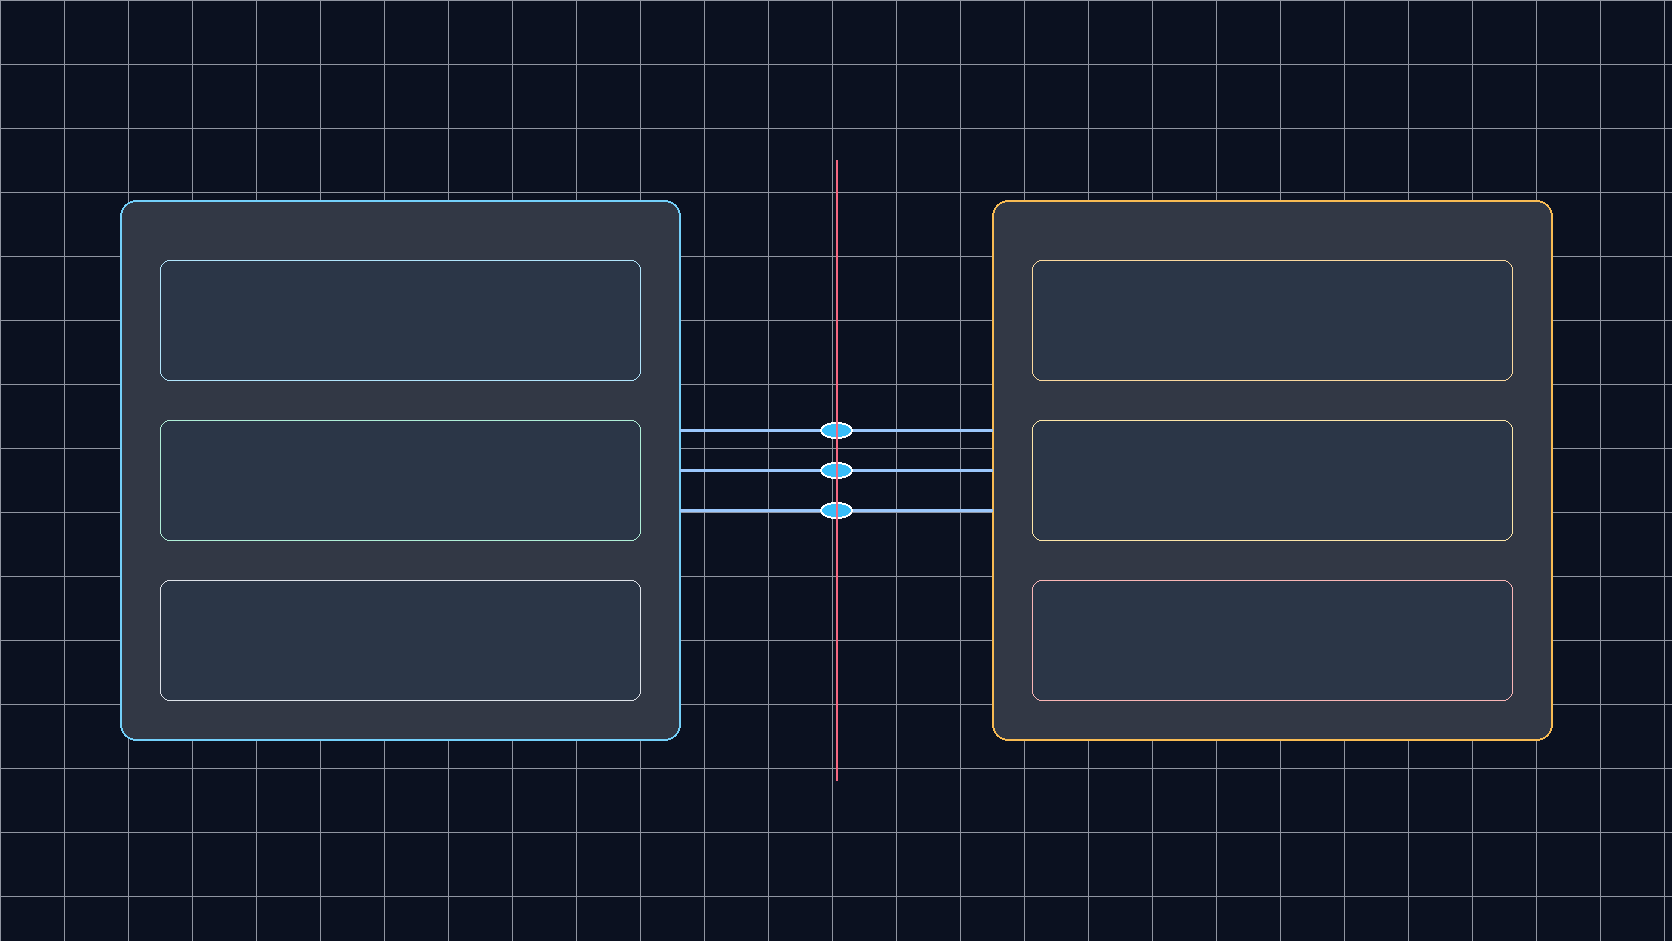
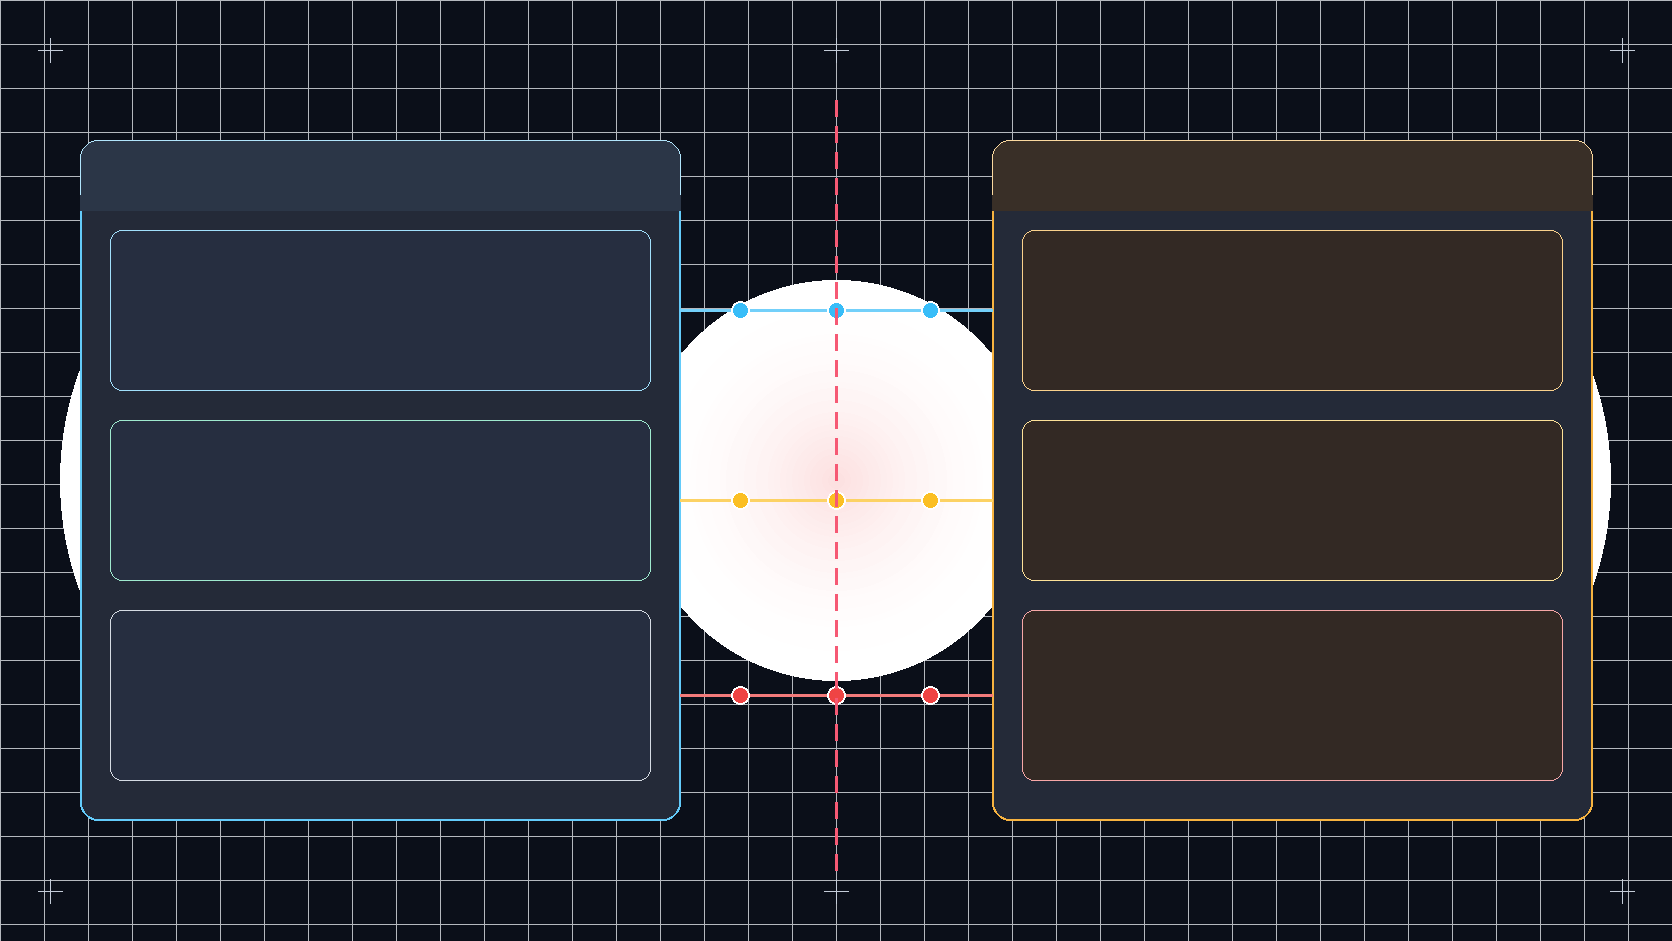
fix(blog): enhance Browser Use architecture visual and theme-safe Mermaid

diff --git a/_posts/2026-11-14-browser-use-1-cloud-execution-boundary.md b/_posts/2026-11-14-browser-use-1-cloud-execution-boundary.md
@@ -26,20 +26,50 @@ The minimal `Agent(...).run_sync()` constructor in Browser Use 1.0 routes tasks 
 Even when an engineer overrides this configuration, nuanced boundaries remain. Specifying `Browser('chromium')` provisions a local browser process on the host, but page screenshots and accessibility trees are still dispatched to external model provider APIs. Understanding where browser automation state lives—and where remote telemetry and network traffic flow—is essential for building reliable, secure agent infrastructure.
 
 ```mermaid
+%%{init: {"flowchart": {"useMaxWidth": false}}}%%
 flowchart LR
-    subgraph Client["Developer Host"]
+    subgraph Client ["Developer Host Environment"]
         AgentCode["Agent Script / CLI"]
-        LocalBrowser["Local Chromium Daemon"]
+        LocalBrowser["Local Chromium Daemon (default-chromium)"]
     end
-    subgraph CloudBoundary["External Boundaries"]
+    subgraph CloudBoundary ["External Boundaries"]
         CloudGateway["Browser Use Cloud Gateway"]
-        LLMProvider["Model Provider API (OpenAI/Anthropic)"]
+        LLMProvider["Model Provider API (OpenAI / Anthropic)"]
     end
 
     AgentCode -->|"Default run_sync()"| CloudGateway
     AgentCode -.->"Explicit Browser('chromium')"| LocalBrowser
     LocalBrowser -->|"DOM & Screenshots"| LLMProvider
+
+    style Client fill:#f8fafc,stroke:#38bdf8,stroke-width:2px,color:#0f172a
+    style CloudBoundary fill:#fffbeb,stroke:#f59e0b,stroke-width:2px,color:#0f172a
 ```
+
+<svg viewBox="0 0 860 320" xmlns="http://www.w3.org/2000/svg" role="img" aria-label="Browser Use 1.0 architecture diagram showing local vs cloud execution boundaries" style="width:100%;max-width:860px;height:auto;display:block;margin:1.5rem auto;">
+  <rect x="10" y="20" width="380" height="280" rx="12" fill="none" stroke="#38bdf8" stroke-width="2" stroke-dasharray="4 2"/>
+  <text x="30" y="50" fill="#38bdf8" font-family="system-ui,-apple-system,sans-serif" font-size="14" font-weight="700">LOCAL HOST RUNTIME</text>
+  <rect x="30" y="70" width="340" height="55" rx="8" fill="#1e293b" stroke="#38bdf8" stroke-width="1"/>
+  <text x="45" y="98" fill="#f8fafc" font-family="system-ui,-apple-system,sans-serif" font-size="12" font-weight="600">CLI Stdio Transport (--cli-mcp)</text>
+  <text x="45" y="114" fill="#94a3b8" font-family="system-ui,-apple-system,sans-serif" font-size="11">intercepts BrokenPipe via except* OSError</text>
+  <rect x="30" y="140" width="340" height="55" rx="8" fill="#1e293b" stroke="#34d399" stroke-width="1"/>
+  <text x="45" y="168" fill="#f8fafc" font-family="system-ui,-apple-system,sans-serif" font-size="12" font-weight="600">Background Daemon (default-chromium)</text>
+  <text x="45" y="184" fill="#94a3b8" font-family="system-ui,-apple-system,sans-serif" font-size="11">isolated PID lifecycle; closed via --reload</text>
+  <rect x="30" y="210" width="340" height="55" rx="8" fill="#1e293b" stroke="#94a3b8" stroke-width="1"/>
+  <text x="45" y="238" fill="#f8fafc" font-family="system-ui,-apple-system,sans-serif" font-size="12" font-weight="600">CDP Endpoint (BU_CDP_URL)</text>
+  <text x="45" y="254" fill="#94a3b8" font-family="system-ui,-apple-system,sans-serif" font-size="11">3s fail-fast refusal timeout</text>
+
+  <rect x="470" y="20" width="380" height="280" rx="12" fill="none" stroke="#f59e0b" stroke-width="2"/>
+  <text x="490" y="50" fill="#f59e0b" font-family="system-ui,-apple-system,sans-serif" font-size="14" font-weight="700">BROWSER USE CLOUD</text>
+  <rect x="490" y="70" width="340" height="55" rx="8" fill="#1e293b" stroke="#f59e0b" stroke-width="1"/>
+  <text x="505" y="98" fill="#f8fafc" font-family="system-ui,-apple-system,sans-serif" font-size="12" font-weight="600">Cloud Gateway (run_sync default)</text>
+  <text x="505" y="114" fill="#94a3b8" font-family="system-ui,-apple-system,sans-serif" font-size="11">remote browser allocation via API key</text>
+  <rect x="490" y="140" width="340" height="55" rx="8" fill="#1e293b" stroke="#fbbf24" stroke-width="1"/>
+  <text x="505" y="168" fill="#f8fafc" font-family="system-ui,-apple-system,sans-serif" font-size="12" font-weight="600">Hosted bu-fast Reasoning Model</text>
+  <text x="505" y="184" fill="#94a3b8" font-family="system-ui,-apple-system,sans-serif" font-size="11">automated plan and action generation</text>
+  <rect x="490" y="210" width="340" height="55" rx="8" fill="#1e293b" stroke="#ef4444" stroke-width="1"/>
+  <text x="505" y="238" fill="#f8fafc" font-family="system-ui,-apple-system,sans-serif" font-size="12" font-weight="600">Cancellation Budget Guard</text>
+  <text x="505" y="254" fill="#94a3b8" font-family="system-ui,-apple-system,sans-serif" font-size="11">10s shared deadline caps billing retention</text>
+</svg>
 
 The release of Browser Use commit `dfb6a73d520809341c975c6a01c228327991e88b` (tagged for version 1.0.3) provides detailed telemetry-derived error data from real-world deployments. By analyzing the fixes merged in this update, systems engineers can trace how headless environments, Model Context Protocol (MCP) clients, and process teardowns behave under stress.
 
